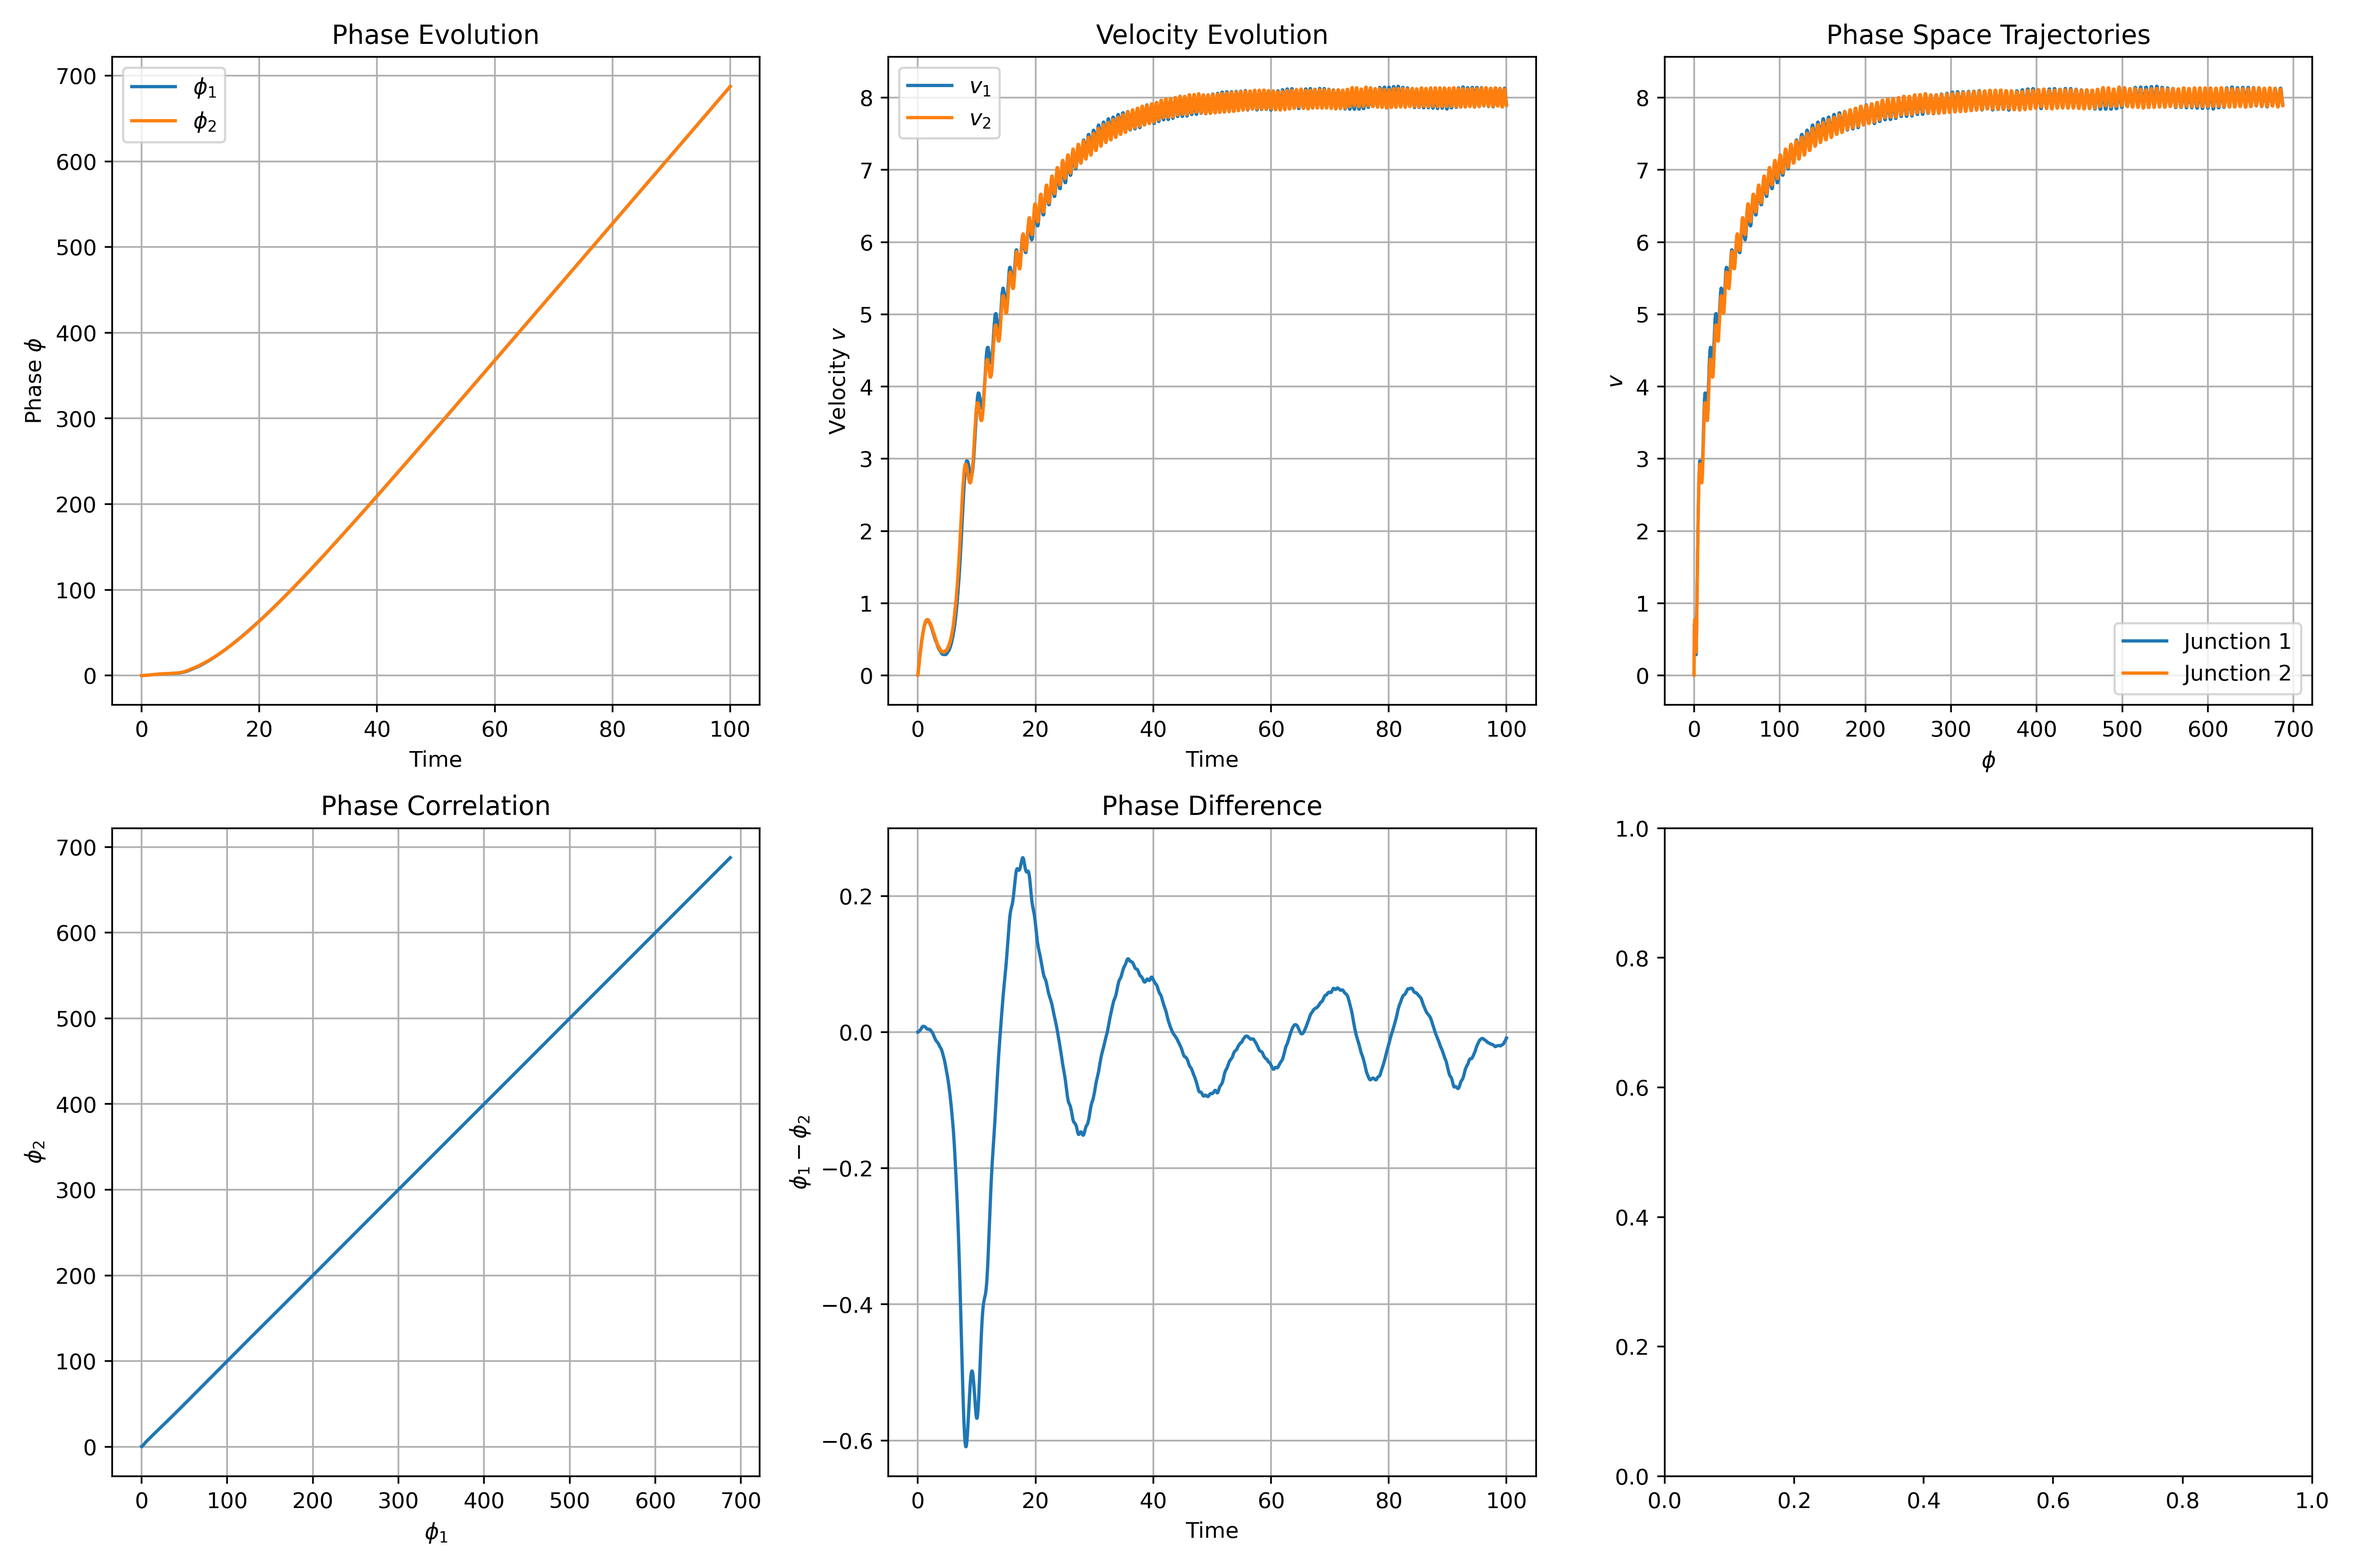
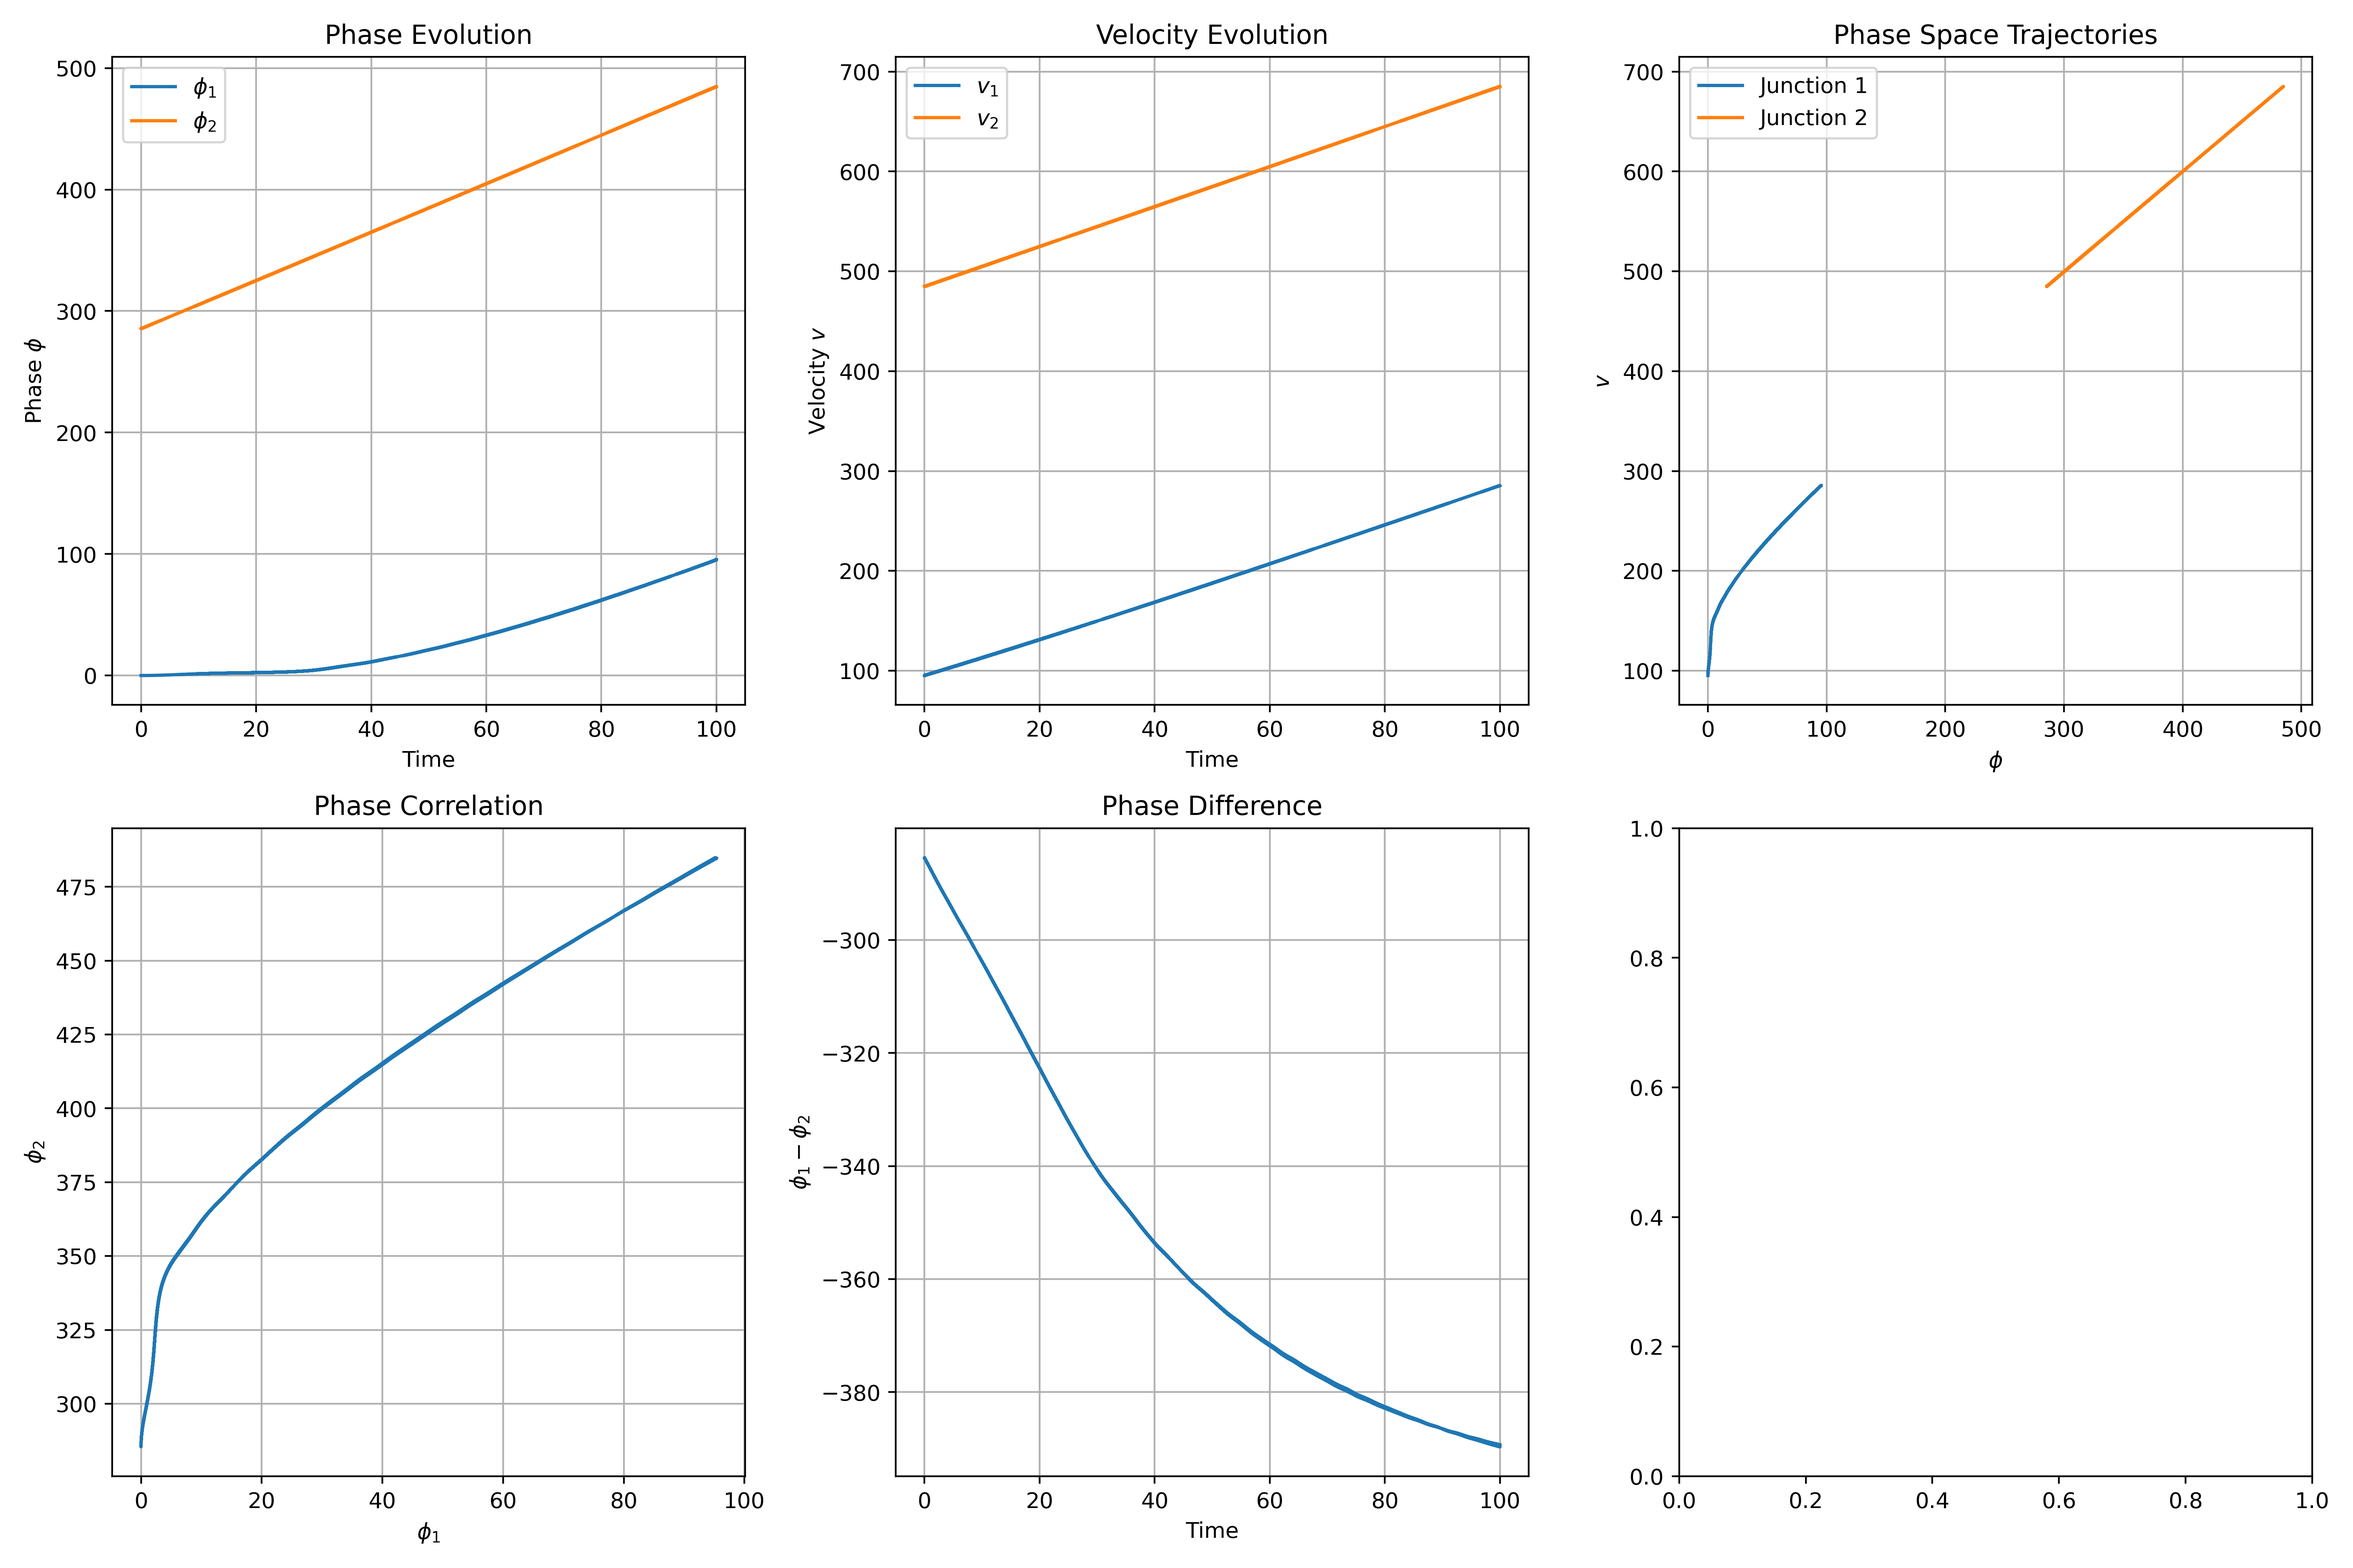
update

diff --git a/2_projects/01_wSLYuan_Coupled_JJ/2_python_code/coupled_junction_sdeint.py b/2_projects/01_wSLYuan_Coupled_JJ/2_python_code/coupled_junction_sdeint.py
@@ -4,7 +4,7 @@ from matplotlib import axes, pyplot as plt
 import numpy as np
 from numba import njit
 
-from sdeint import itoSRI2 
+from sdeint import itoSRI2, itoEuler
 
 # coupled_junction.py
 
@@ -85,50 +85,41 @@ class CoupledJunction:
     def update_history(self, i: int, t: float):
         self.history[:, i] = np.array([t, *self.state.flatten()], dtype=np.float64)
     
-    def simulate_hand(self, tspan: float, dt: float = 1e-4):
+    def simulate(self, tspan: float, dt: float = 1e-4):
         if self.seed is not None:
             np.random.seed(self.seed)
         
         params = self.params
         
-        linear_ode_matrix = np.array([
-            [0, 1, 0, 0],
-            [-params.kappa1, -params.beta1, params.kappa1, 0],
-            [0, 0, 0, 1],
-            [params.kappa2, 0, -params.kappa2, -params.beta2],
-        ], dtype=np.float64)
+        def f(x, t):
         
-        t = 0
-        t_linspace = np.arange(0, tspan, dt)
-        history_steps = len(t_linspace) // 100 + 1
-        print(history_steps)
-        
-        self.history = np.empty((5, history_steps), dtype=np.float64)
-        
-        for i, t in enumerate(t_linspace):
-            if i % 100 == 0:
-                self.update_history(i//100, t)
-            
-            diffusion_term = np.array([[0], 
-                                       [params.sigma1*np.random.normal(0, 1)], 
-                                       [0], 
-                                       [params.sigma2*np.random.normal(0, 1)]], dtype=np.float64) * np.sqrt(dt)
+            linear_ode_matrix = np.array([
+                [0, 1, 0, 0],
+                [-params.kappa1, -params.beta1, params.kappa1, 0],
+                [0, 0, 0, 1],
+                [params.kappa2, 0, -params.kappa2, -params.beta2],
+            ], dtype=np.float64)
             
             drift_term = np.array([[0], 
-                                   [-np.sin(self.state[0, 0]) + params.i1], 
+                                   [-np.sin(x[0]) + params.i1], 
                                    [0], 
-                                   [-np.sin(self.state[2, 0]) + params.i2]], dtype=np.float64)
-
-            self.state = core_step(self.state, 
-                                   linear_ode_matrix, 
-                                   drift_term, 
-                                   diffusion_term, dt)
+                                   [-np.sin(x[2]) + params.i2]], dtype=np.float64)
             
-            print("\rProgress: {:.2f}%".format(t / tspan * 100), end="")
+            return (linear_ode_matrix @ x.reshape(-1, 1) + drift_term).reshape(-1)
+        
+        def g(x, t):
+            return np.diag([0, params.sigma1, 0, params.sigma2]).astype(np.float64)
+        
+        self.t = np.linspace(0, int(tspan), int(tspan*1e4))
+        
+        res = itoEuler(f, g, y0=self.state.reshape(-1), tspan=self.t)
+        
+        self.history = res.reshape(4, -1)
             
     def export_simulation(self):
         # print(self.history.shape)
-        t, phi1, v1, phi2, v2 = self.history[:, :-1]
+        phi1, v1, phi2, v2 = self.history[:, ::10]
+        t = self.t[::10]
         
         fig, axs = plt.subplots(2, 3, figsize=(15, 10), dpi=400)
         axs: List[axes.Axes] = axs.flatten()
@@ -194,7 +185,7 @@ if __name__ == "__main__":
     cj = CoupledJunction(params)
     cj.init_state(init_cond)
     # cj.simulate_hand(tspan=100.0, dt=1e-4)
-    cj.simulate_hand(tspan=100.0, dt=1e-6)
+    cj.simulate(tspan=100, dt=1e-6)
     # import cProfile
     # cProfile.run('cj.simulate_hand(tspan=100.0, dt=5e-4)', "stats")
     

diff --git a/3_Learn/1_Maths/0_SDE/0-Evans-随机微分方程导论/第5章 随机微分方程.md b/3_Learn/1_Maths/0_SDE/0-Evans-随机微分方程导论/第5章 随机微分方程.md
@@ -136,7 +136,8 @@ V(X(t)) &\rightarrow \displaystyle \frac{\sigma^{2}}{2b}
 $$
 换言之，粒子的分布在 $t$ 充分大时趋近于 $\displaystyle N\left( 0, \frac{\sigma^{2}}{2b} \right)$，这是一个固定的分布。它的方差项同时包含扩散系数和摩擦系数，可以将其理解为时间充分大后扩散与摩擦耗散之间的平衡。
 
-![](Pasted%20image%2020251115225358.png)
+<center><img src="Pasted%20image%2020251115225358.png" alt="Langevin 方程的模拟" style="zoom:60%"></center>
+
 <center>Langevin 方程的模拟</center>
 
 > **示例 5.10（Ornstein-Uhlenbeck 过程, OU 过程）** 
@@ -273,15 +274,57 @@ $$
 
 ### 5.2.3 一般的存在性和唯一性定理
 
+我们先证明一些引理工具。
+
 > **引理 5.12（Gronwall 不等式）**
 > 
 > 考虑定义在 $[0, T]$ 上的两个非负连续函数 $f$ 和 $\phi$ 和某个非负常数 $C_{0}$，若 $f$ 和 $\phi$ 满足对所有的 $t \in [0, T]$，都有 $$\phi(t) \leqslant C_{0} + \int_{0}^{t} f\phi \, \mathrm{d}s  $$则它们满足下面的不等式 $$\phi(t) \leqslant C_{0} \exp \left\{ \int_{0}^{t} f \, \mathrm{d}s  \right\} $$
 
+**证明**.
+令 $\displaystyle \Phi = C_{0} + \int_{0}^{t} f\phi \, \mathrm{d}s$，则有 $\Phi' = f\phi$。由定理条件，$\phi \leqslant \Phi$，且 $f, \phi \geqslant 0$，因此有 $\Phi' = f\phi \leqslant f \Phi$。考虑
+$$
+g'(t) = \left[ \exp\left\{  -\int_{0}^{t} f \, \mathrm{d}s   \right\}\Phi \right]' = (\underbrace{ {\color{red} \Phi' - f\Phi} }_{ \leqslant\;\! 0 })\exp\{ * \} \leqslant 0.
+$$
+因此 $g$ 在定义域上是单调递减的，于是有
+$$
+g(t) = \exp\left\{  -\int_{0}^{t} f \, \mathrm{d}s   \right\}\Phi(t) \leqslant \Phi(0) = g(0) = C_{0} \iff \phi(t) \leqslant \Phi(t) \leqslant C_{0} \exp \left\{ \int_{0}^{t} f \, \mathrm{d}s  \right\}.
+$$
+
+接下来就可以证明我们的目标了
+
 > **定理 5.13（SDE 解的存在性和唯一性）**
 > 
-> 考虑满足下列条件的连续函数 $\boldsymbol{b}: \mathbb{R}^{n} \times [0, T] \rightarrow \mathbb{R}^{n}$ 和 $\boldsymbol{B}: \mathbb{R}^{n} \times [0, T] \rightarrow \mathbb{M}^{m \times n}$：$$\begin{align}\|\boldsymbol{b}(\boldsymbol{x}, t) - \boldsymbol{b}(\hat{\boldsymbol{x}}, t)\| &\leqslant L\|\boldsymbol{x} - \hat{\boldsymbol{x}}\| \\ \|\boldsymbol{B}(\boldsymbol{x}, t) - \boldsymbol{B}(\hat{\boldsymbol{x}}, t)\| &\leqslant L\|\boldsymbol{x} - \hat{\boldsymbol{x}}\| \\[2em] \|\boldsymbol{b}(\boldsymbol{x}, t) &\leqslant L(1 + \|\boldsymbol{x}\|) \\ \|\boldsymbol{B}(\boldsymbol{x}, t) &\leqslant L(1 + \|\boldsymbol{x}\|) \\ \end{align}\quad \quad \text{for all } \quad 0 \leqslant t \leqslant T; \quad  \boldsymbol{x} , \hat{\boldsymbol{x}} \in \mathbb{R}^{n}$$  $m$ 维 Brown 运动 $\boldsymbol{W}(\cdot)$ 和 $\mathcal{W}^{+}(0)$ 独立，并满足下列条件的 $\mathbb{R}^{n}$ 值随机变量 $\boldsymbol{X}_{0}$ $$E(\|\boldsymbol{X}_{0}\|^{2}) < \infty,$$ 下面形式的 SDE 存在一个唯一解 $\boldsymbol{X} \in \mathbb{L}^{2}_{n}(0, T)$：$$\left\{ \begin{align}
-\mathrm{d}\boldsymbol{X} &= \boldsymbol{b}(\boldsymbol{X}, t) \mathrm{d} t + \boldsymbol{B}(\boldsymbol{X}, t) \mathrm{d} \boldsymbol{W}\\ \boldsymbol{X}(0) &= \boldsymbol{X}_{0}
-\end{align} \right. \quad \quad 0 \leqslant t \leqslant T $$
+> 考虑满足下列条件的连续函数 $\boldsymbol{b}: \mathbb{R}^{n} \times [0, T] \rightarrow \mathbb{R}^{n}$ 和 $\boldsymbol{B}: \mathbb{R}^{n} \times [0, T] \rightarrow \mathbb{M}^{m \times n}$：$$\begin{align}\|\boldsymbol{b}(\boldsymbol{x}, t) - \boldsymbol{b}(\hat{\boldsymbol{x}}, t)\| &\leqslant L\|\boldsymbol{x} - \hat{\boldsymbol{x}}\| \\ \|\boldsymbol{B}(\boldsymbol{x}, t) - \boldsymbol{B}(\hat{\boldsymbol{x}}, t)\| &\leqslant L\|\boldsymbol{x} - \hat{\boldsymbol{x}}\| \\[2em] \|\boldsymbol{b}(\boldsymbol{x}, t)\| &\leqslant L(1 + \|\boldsymbol{x}\|) \\ \|\boldsymbol{B}(\boldsymbol{x}, t)\| &\leqslant L(1 + \|\boldsymbol{x}\|) \\ \end{align}\quad \quad \text{for all } \quad 0 \leqslant t \leqslant T; \quad  \boldsymbol{x} , \hat{\boldsymbol{x}} \in \mathbb{R}^{n}$$  $m$ 维 Brown 运动 $\boldsymbol{W}(\cdot)$ 和 $\mathcal{W}^{+}(0)$ 独立，并满足下列条件的 $\mathbb{R}^{n}$ 值随机变量 $\boldsymbol{X}_{0}$ $$E(\|\boldsymbol{X}_{0}\|^{2}) < \infty,$$ 下面形式的 SDE 存在一个唯一解 $\boldsymbol{X} \in \mathbb{L}^{2}_{n}(0, T)$：$$\left\{ \begin{align}\mathrm{d}\boldsymbol{X} &= \boldsymbol{b}(\boldsymbol{X}, t) \mathrm{d} t + \boldsymbol{B}(\boldsymbol{X}, t) \mathrm{d} \boldsymbol{W}\\ \boldsymbol{X}(0) &= \boldsymbol{X}_{0}\end{align} \right. \quad \quad 0 \leqslant t \leqslant T $$
+> 注1. 唯一指的是在概率 $1$ 意义下唯一：如果有两个有几乎必然连续采样轨道的解 $\boldsymbol{X}, \hat{\boldsymbol{X}} \in \mathbb{L}_{n}^{2}(0, T)$ ，那么有 $$P(\boldsymbol{X}(t) = \hat{\boldsymbol{X}}(t)\; \text{for all }0 \leqslant t \leqslant T) = 1$$
+> 注2. 对于 $\boldsymbol{B}$ 和 $\boldsymbol{b}$ 的前两条假设说的是它们对 $\boldsymbol{x}$ 是一致 Lipschitz 连续的。
+
+**证明**.
+
+**第一步：唯一性**
+
+我们的思路是假设有两个有几乎一定连续轨道的解，然后证明它们在概率 $1$ 意义下相等。假设 $\boldsymbol{X}$ 和 $\hat{\boldsymbol{X}}$ 都是上述 SDE 的解，则对所有 $0 \leqslant t \leqslant T$，都有
+$$
+\boldsymbol{X}(t) - \hat{\boldsymbol{X}}(t) = \int_{0}^{t} \boldsymbol{b}(\boldsymbol{X}, s) - \boldsymbol{b}(\hat{\boldsymbol{X}}, s) \, \mathrm{d}s + \int_{0}^{t} \boldsymbol{B}(\boldsymbol{X}, s) - \boldsymbol{B}(\hat{\boldsymbol{X}}, s) \, \mathrm{d}\boldsymbol{W}  
+$$
+我们对差的期望做估计。对任意 $0 \leqslant t \leqslant T$，有：
+$$
+\begin{align}
+E(\|\boldsymbol{X}(t) - \hat{\boldsymbol{X}}(t)\|^{2}) &\leqslant 2E\left( \left\| \int_{0}^{t} \boldsymbol{b}(\boldsymbol{X}, s) - \boldsymbol{b}(\hat{\boldsymbol{X}}, s) \, \mathrm{d} s \right\|^{2}  \right) \\ & \quad + 2E\left( \left\| \int_{0}^{t} \boldsymbol{B}(\boldsymbol{X}, s) - \boldsymbol{B}(\hat{\boldsymbol{X}}, s) \, \mathrm{d} \boldsymbol{W} \right\|^{2} \right) & 基本不等式\\
+&\leqslant 2 t E\left(  \int_{0}^{t}\left\| \boldsymbol{b}(\boldsymbol{X}, s) - \boldsymbol{b}(\hat{\boldsymbol{X}}, s) \right\|^{2} \, \mathrm{d} s  \right) & \text{Cauchy-Schwarz 不等式} \\ & \quad + 2 E\left(  \int_{0}^{t}\left\| \boldsymbol{B}(\boldsymbol{X}, s) - \boldsymbol{B}(\hat{\boldsymbol{X}}, s) \right\|^{2} \, \mathrm{d} s \right) & \text{It$\hat{\mathrm{o}}$等距}\\
+&\leqslant 2TL^{2} \int_{0}^{t} E(\|\boldsymbol{X} - \hat{\boldsymbol{X}}\|^{2}) \, \mathrm{d}s + 2L^{2}\int_{0}^{t} E(\|\boldsymbol{X} - \hat{\boldsymbol{X}}\|^{2}) \, \mathrm{d}s & \boldsymbol{b} \text{ 和 } \boldsymbol{B} \text{ 一致 Lipschitz 连续}\\
+&= C \int_{0}^{t} E(\|\boldsymbol{X} - \hat{\boldsymbol{X}}\|^{2}) \, \mathrm{d}s 
+\end{align}
+$$
+此时我们令 $\phi(t) = E(\|\boldsymbol{X}(t) - \hat{\boldsymbol{X}}(t)\|^{2})$，就得到 $\phi(t) \leqslant 0 + C \displaystyle \int_{0}^{t} \phi(s) \, \mathrm{d}s$ 根据上面的 Gronwall 不等式，$\phi(t) \leqslant 0$，因此只有 $\phi(t) = 0$。因此对所有 $0 \leqslant t \leqslant T$，都有 $\boldsymbol{X} = \hat{\boldsymbol{X}}$ 几乎处处成立。又由于 $\boldsymbol{X}$ 和 $\hat{\boldsymbol{X}}$ 的轨道几乎处处连续，就有
+$$
+\begin{align}
+P\Big(\max\limits_{0 \leqslant t \leqslant T}~\|\boldsymbol{X}(t) - \hat{\boldsymbol{X}}(t)\| > 0\Big) = 0.
+\end{align}
+$$
+
+**第二步：存在性**
+
+
 
 ## 5.3 解的性质
 
